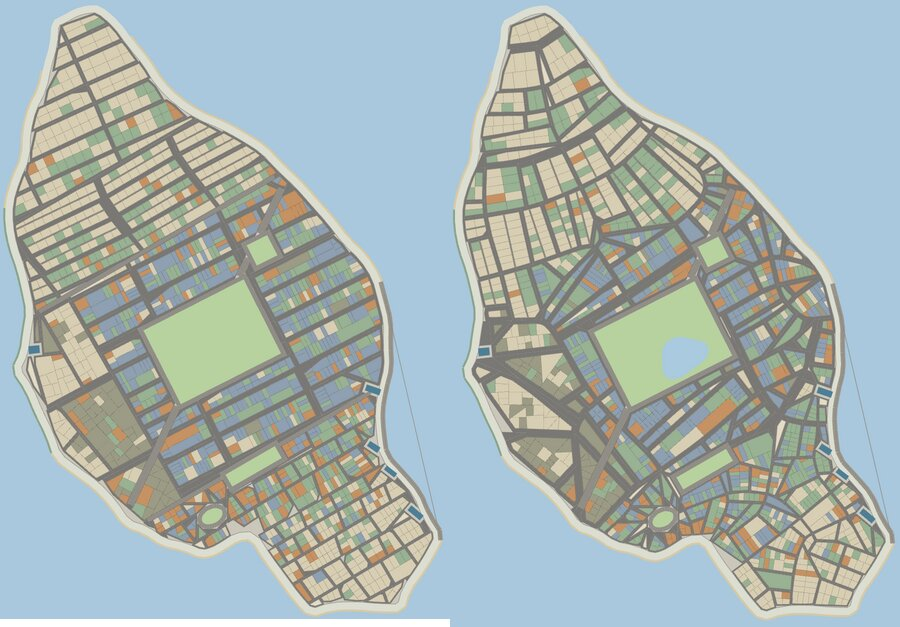
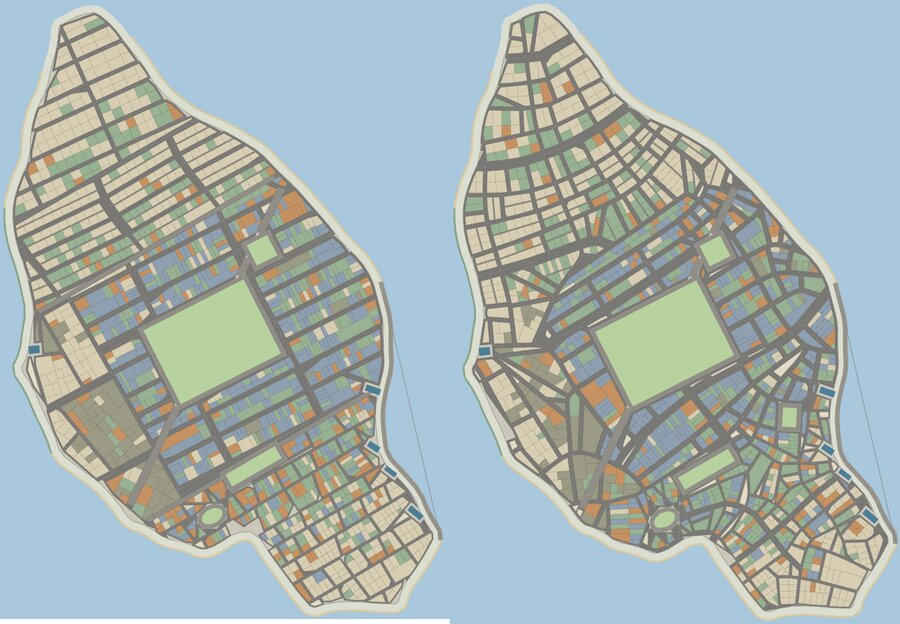
Natural streets: landing square, pitch per street direction, denser tracing, estate widths
- the town starts at the landing (harbour head) with a 60 x 44 m market
  square there, where the old roads converge;
- each streamline family takes a survey's short or long pitch by its angle
  to the survey (harmonic blend) instead of swapping whole pitches, which
  left superblocks wherever the grid turned;
- stop at 0.5 spacing (Chen et al.), seeds from 0.6: more traced streets,
  fewer straight fill-in cuts;
- estates cut to their slab size; their ordinary streets take the town's
  median width (classic pays 22-25 m only on the estate ring).
Images and lot counts refreshed in CITYGEN_NEXT_PLAN.md.

Claude-Session: https://claude.ai/code/session_01BSvUYUkZGsrMRDvk2r2obY

diff --git a/broadway-and-wall/CITYGEN_NEXT_PLAN.md b/broadway-and-wall/CITYGEN_NEXT_PLAN.md
@@ -50,10 +50,13 @@ One street network for the whole island, grown from the land and from history.
 2. **Arterials first, then streets** (Chen et al. sec. 5): streamlines of the two families
    are traced by RK2 in 5 m steps from the landing and the cores, at four times the block
    pitch, then the ordinary streets at the block pitch the districts already draw (their
-   `stPitch`/`avePitch`, so block sizes stay the calibrated ones). A line stops at the shore,
-   at a square's frontage, at standing water, or when it comes within 0.62 of a spacing of
-   another line of its family; new seeds are dropped a spacing to each side and, for the
-   other family, along it.
+   `stPitch`/`avePitch`, so block sizes stay the calibrated ones). Each family takes the
+   survey's short pitch as far as it runs along the survey's streets and the long pitch as
+   far as along its avenues, blended harmonically (a family at 45 degrees to a 78 x 300 m
+   survey is laid ~124 m apart). A line stops at the shore, at a square's frontage, at
+   standing water, or within half a spacing of another line of its family (Chen et al.'s
+   own 0.5); new seeds are dropped a spacing to each side and, for the other family, along
+   it, and are not started within 0.6 of a spacing of a street.
 3. **Blocks from the street graph**: streets, the shore and every square's frontage road are
    noded into a planar graph; dangling ends reach forward up to 3/4 of a block to meet the
    next street, the rest are pruned; the faces are the blocks. A slightly bent face is
@@ -63,6 +66,15 @@ One street network for the whole island, grown from the land and from history.
    boulevards, ponds), `pushBlock` (now told each edge's street — arterials are 18-30 m
    between building lines, ordinary streets the district's own width), the wedge rule, the
    frontage plat, land use, settlement order, massing, the map layers, Unreal export.
+
+**The landing square.** Natural towns start at the landing (the harbour head, ~150 m
+inland toward the core) and get a 60 x 44 m market square there unless a programmed park
+already sits within 150 m: Dock Square's order of size, squared to the shore. It is where
+the old town's roads converge, and without it they knot into wedges.
+
+**Estates** (the superblock district) are cut to their own slab size, and their ordinary
+streets take the town's median street width — in classic only the estate's ring road is
+22-25 m wide.
 
 What is kept: the coast, the districts' roles and flavours, park and boulevard programmes,
 civic sites, streams, demand, every name. What is dropped in Natural mode: the survey seam
@@ -102,13 +114,13 @@ Measured on the prototype (City size; `tools/platlib.mjs`):
 
 | seed | lots classic | lots natural | change | sliver % (nat) | paved void % cls → nat |
 |---|---|---|---|---|---|
-| 2967923640 | 951 | 1020 | +7% | 0.0 | 3.1 → 1.9 |
-| 1 | 1453 | 1361 | -6% | 0.0 | 5.7 → 4.1 |
-| 20261 | 1384 | 1317 | -5% | 0.1 | 3.8 → 2.8 |
-| 555 | 1191 | 1071 | -10% | 0.0 | 5.2 → 3.6 |
-| 3252 | 1076 | 1129 | +5% | 0.0 | 4.0 → 3.0 |
-| 481923 | 999 | 1054 | +6% | 0.1 | 4.6 → 3.1 |
-| 2967923640 Great City | 3876 | 3966 | +2% | | |
+| 2967923640 | 951 | 970 | +2% | 0.0 | 3.1 → 2.1 |
+| 1 | 1453 | 1343 | -8% | 0.0 | 5.7 → 4.3 |
+| 20261 | 1384 | 1241 | -10% | 0.0 | 3.8 → 3.0 |
+| 555 | 1191 | 1198 | +1% | 0.0 | 5.2 → 3.8 |
+| 3252 | 1076 | 1106 | +3% | 0.0 | 4.0 → 3.2 |
+| 481923 | 999 | 1037 | +4% | 0.0 | 4.6 → 3.3 |
+| 2967923640 Great City | 3876 | 4145 | +7% | | |
 
 Lot counts stay inside the classic town-to-town spread (the economy's calibration reads lot
 count and area per size preset), and the natural network leaves less unprogrammed asphalt
@@ -116,7 +128,7 @@ at the shore than classic. Generation takes ~1.5x as long (0.8-1.6 s per City is
 
 ## 4. Phases
 
-1. **Prototype (this commit)**: the network, blocks and lots through the classic pipeline,
+1. **Prototype (done)**: the network, blocks and lots through the classic pipeline,
    `makeCity(..., { streets: "natural" })`; before/after images.
 2. **Build-out behind the option**: the setup choice; stored with the run (`GameSetup.streets`,
    `GameState.cityStreets`, passed to `makeCity` on every rebuild, like `cityParks`);
@@ -136,9 +148,13 @@ at the shore than classic. Generation takes ~1.5x as long (0.8-1.6 s per City is
 - **Saves**: a Natural town must rebuild as Natural. The choice is stored with the run and an
   absent field means Classic, so old saves rebuild exactly. No `SAVE_VERSION` bump is needed
   for an additive optional field (to be confirmed against the save loader in phase 2).
-- **Junction knots**: where several arterials converge (the landing on seed 20261) the
-  roads bunch into a heavy knot of wide streets; a market square at the landing should
-  absorb it (phase 2).
+- **Junction knots**: where several streets converge at acute angles a few small wedge
+  blocks remain (the wedge and gore rules handle them; sliver % is 0).
+- **Part of the network is cut, not traced**: where the field diverges, faces bigger than
+  1.7 blocks are cut by straight streets to the local block size (classic's own
+  `splitCells`). Visible as an occasional straight short street.
+- **No inland water to bridge**: since plan 12 a generated town has no creeks or canals
+  (owner's call), so "water crossings" is a no-op today; the field has a creek basis ready.
 - **Small/odd blocks** near converging streets and a wiggly shore; the wedge rule and the
   gore rule already take the worst, sliver % is 0-0.1.
 - **Address/street names** are still drawn per block, as for classic organic quarters, not
